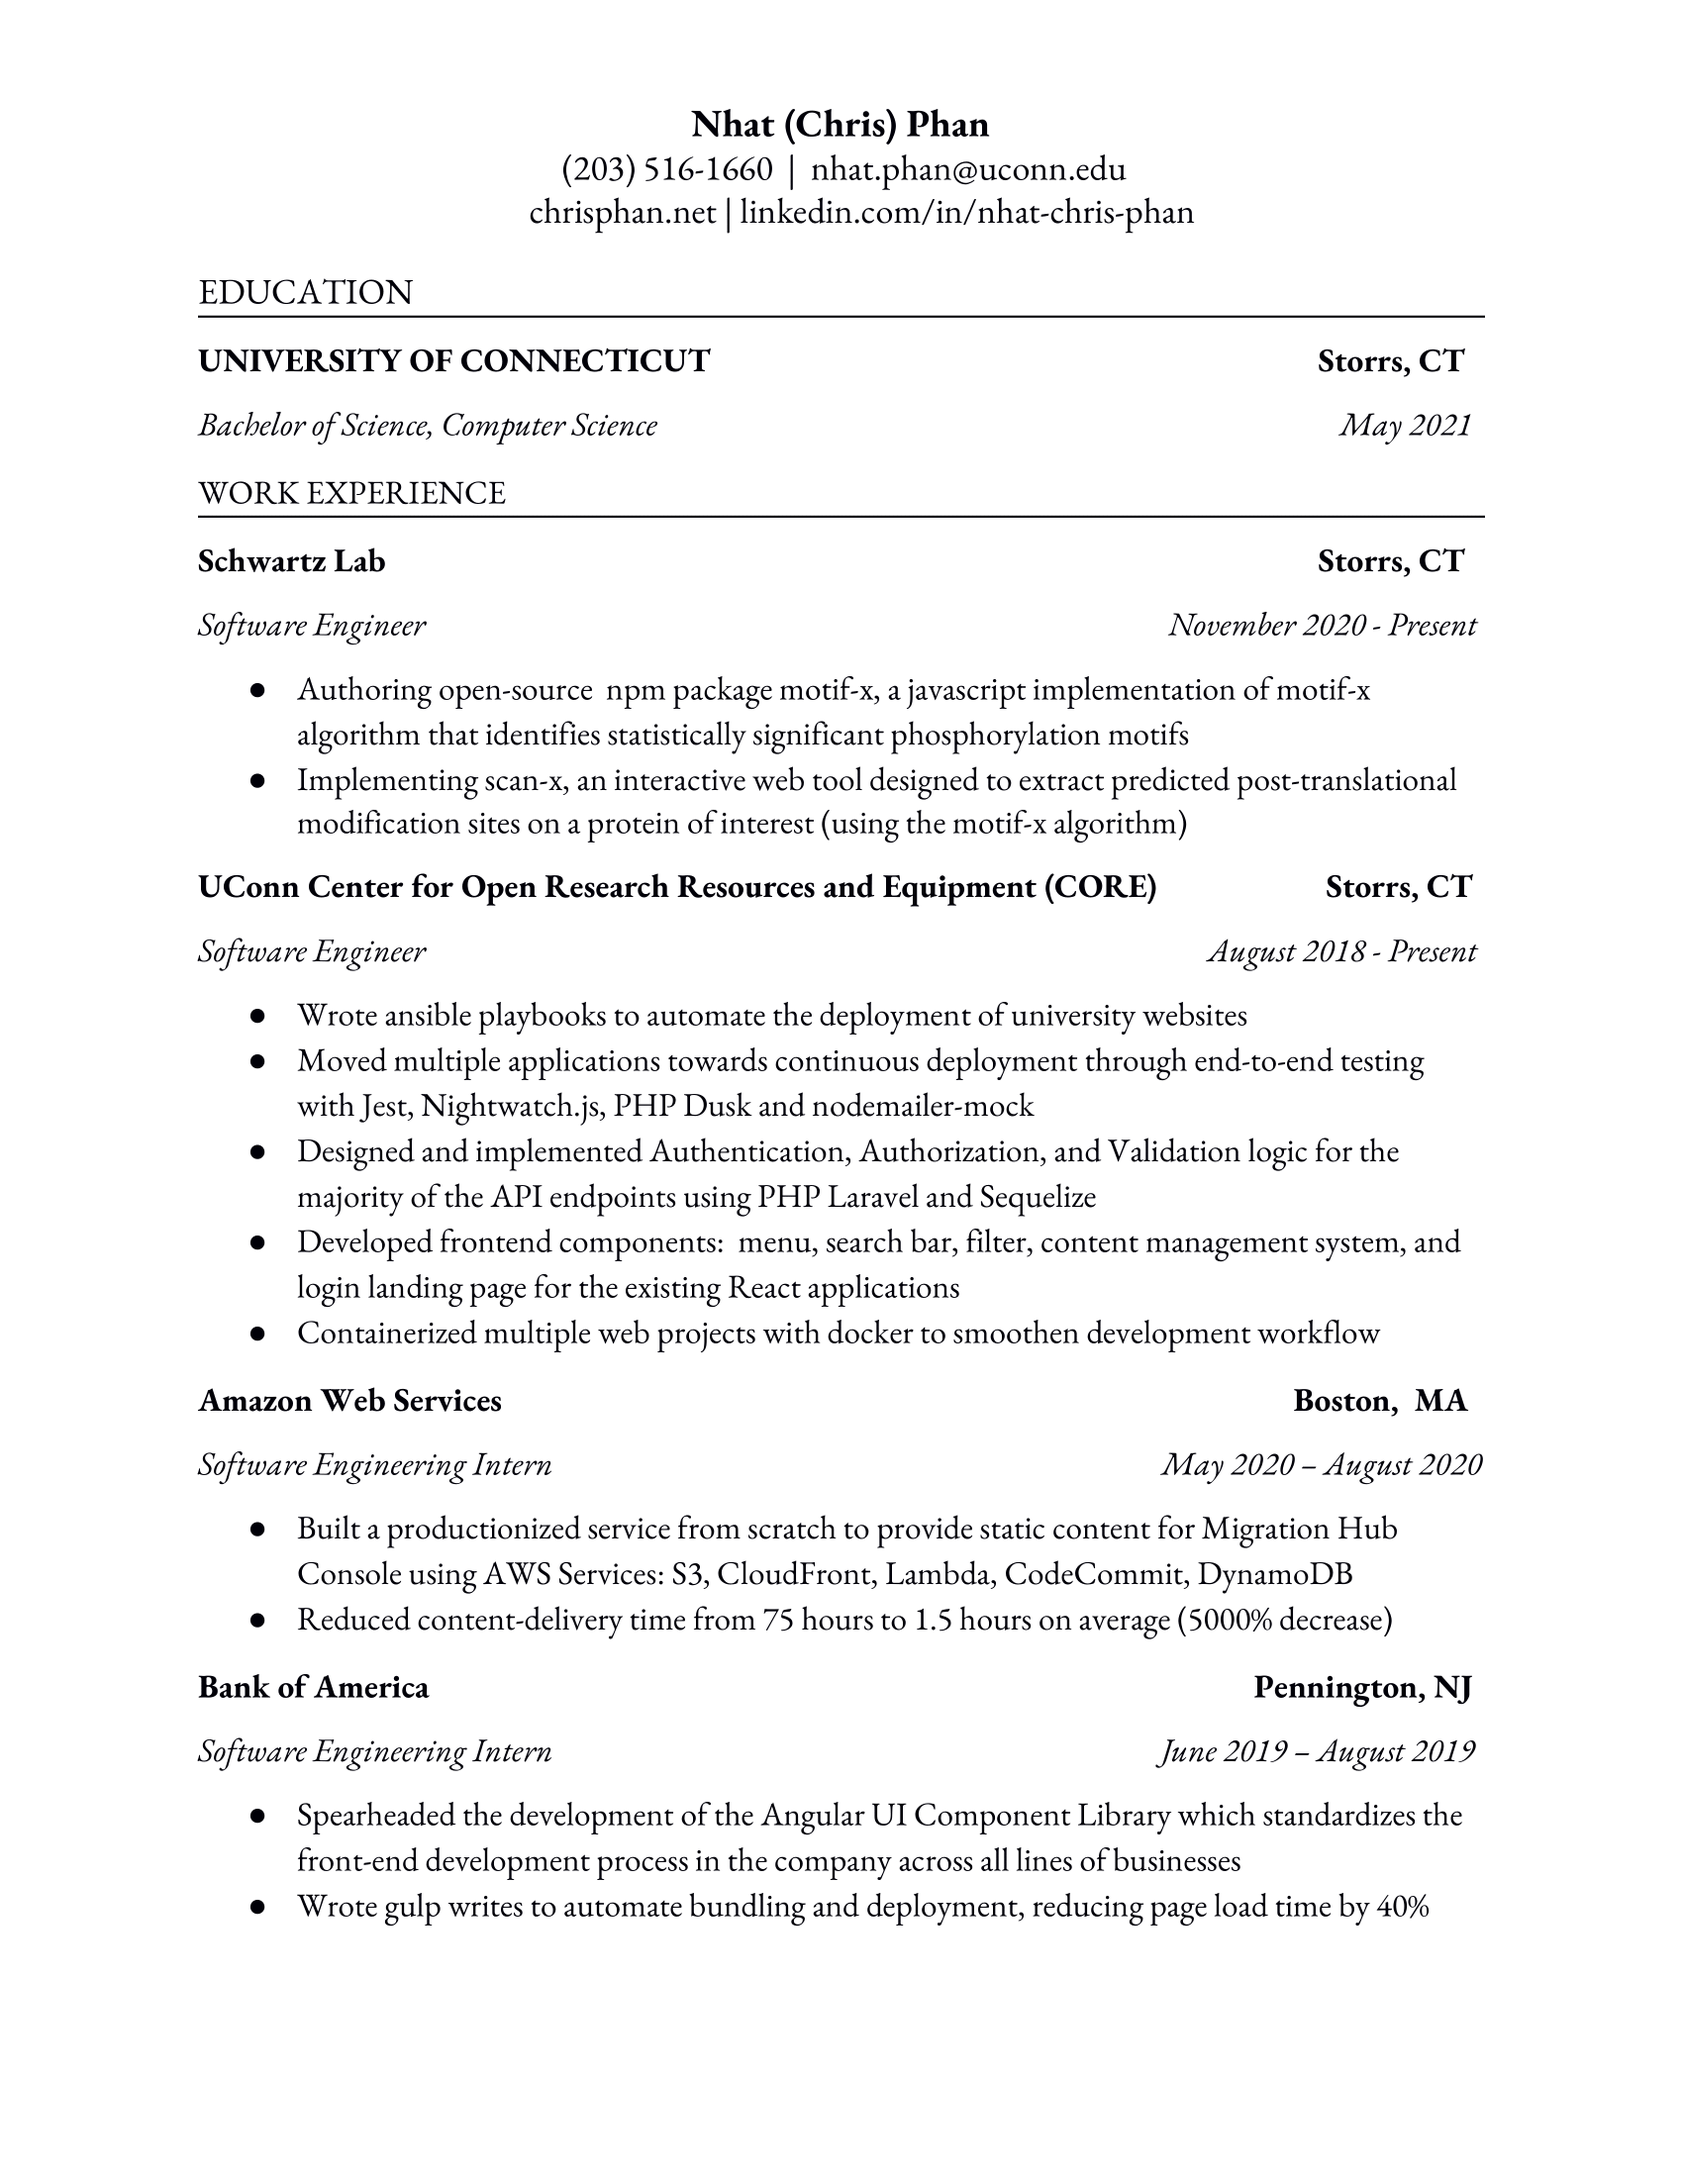
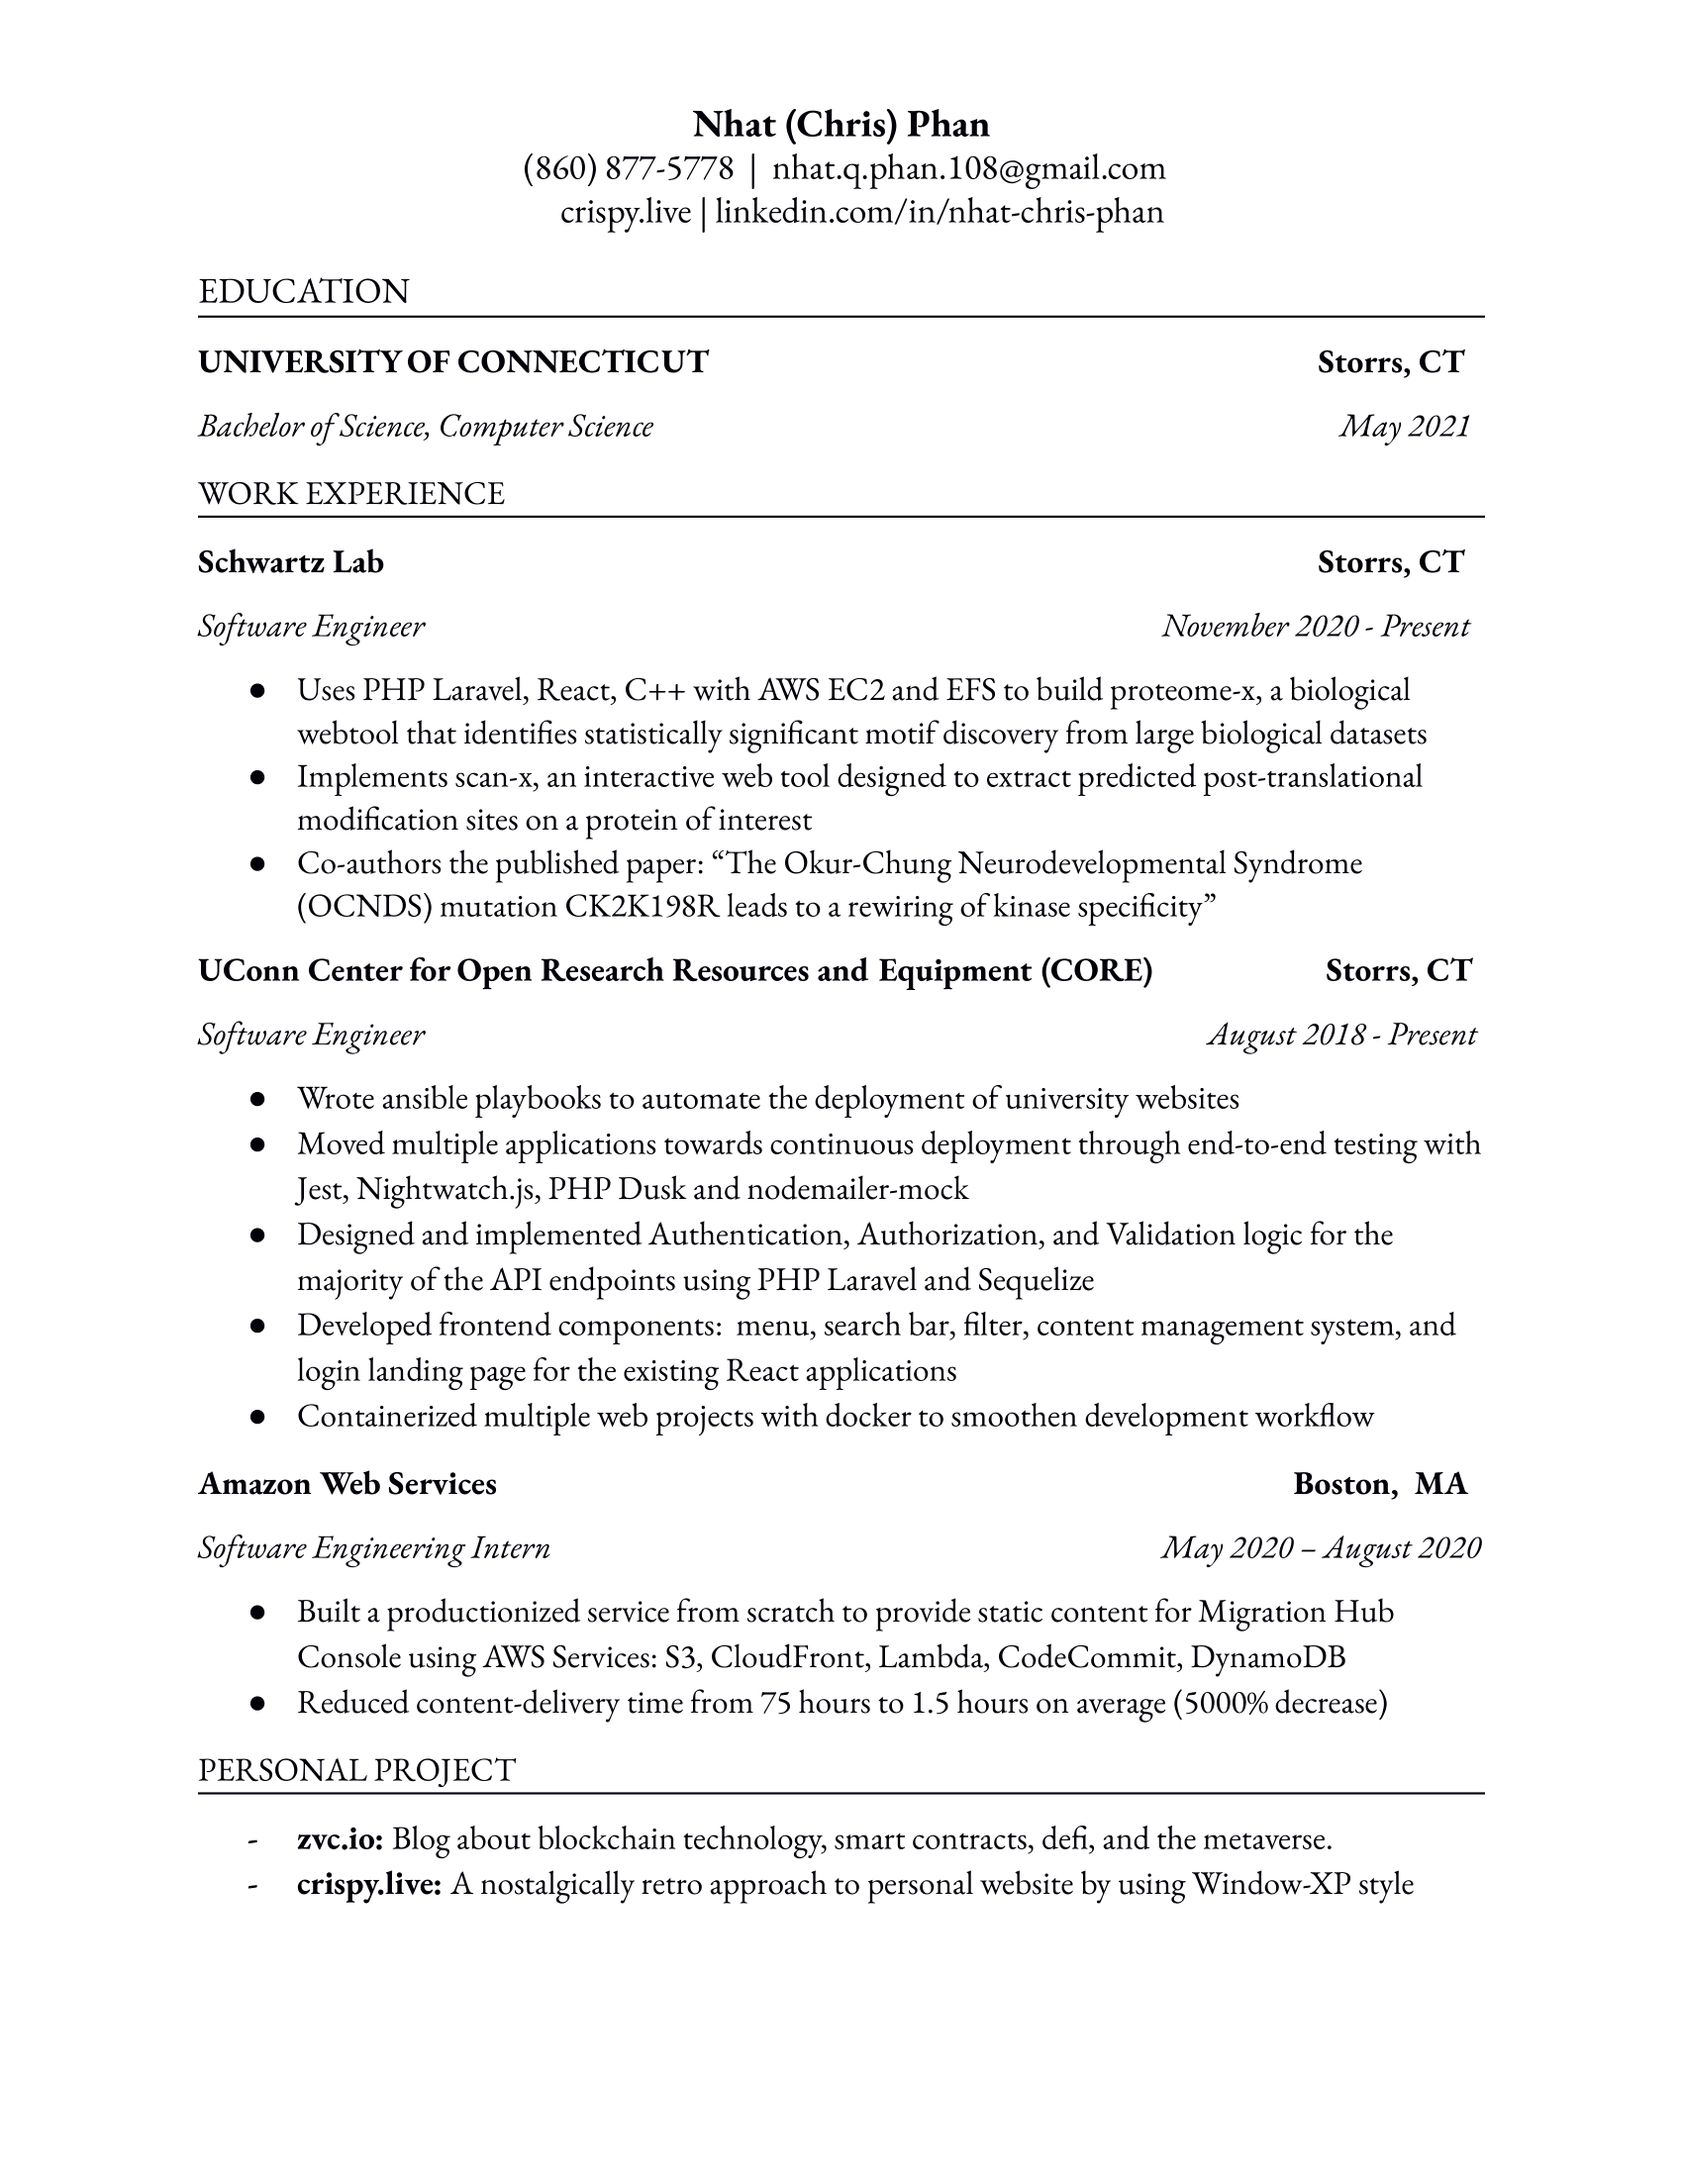
Change resume

diff --git a/src/applications/explorer.js b/src/applications/explorer.js
@@ -168,8 +168,8 @@ const Explorer = () => {
         clickable: true
     }
   ]
-  const [search, setSearch] = useState('https://chrisphan.net')
-  const [query, setQuery] = useState('https://chrisphan.net')
+  const [search, setSearch] = useState('https://crispy.live')
+  const [query, setQuery] = useState('https://crispy.live')
 
   const startSearching = () => {
     setQuery(search)
